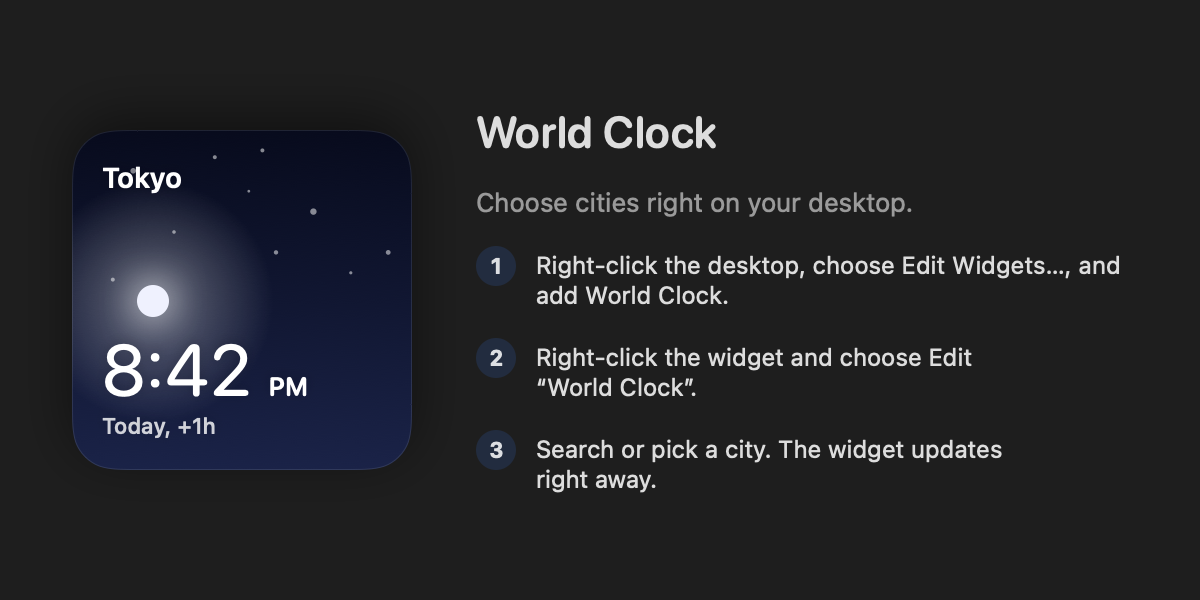
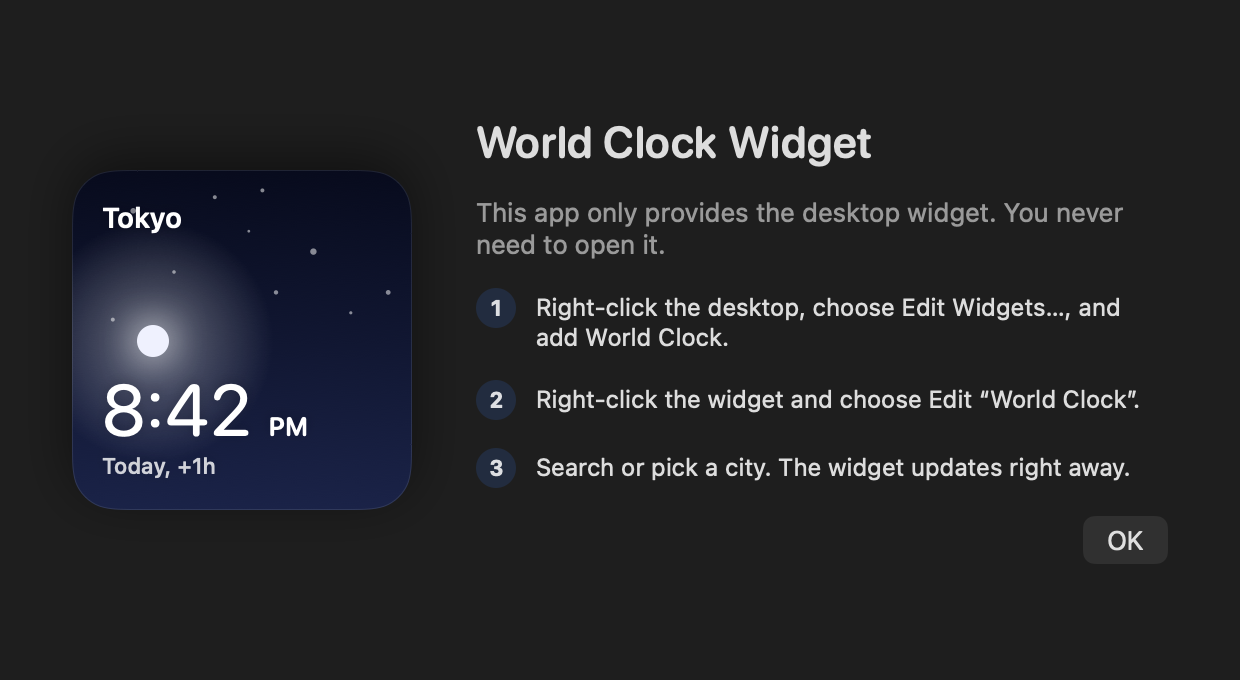
Rename the host app to World Clock Widget and keep it out of the Dock
The app exists only because macOS ships widgets inside an app. It is now
named World Clock Widget, installs as ~/Applications/World Clock Widget.app,
never takes a Dock tile, and its window is a short note with the Edit
Widget steps, a live preview and an OK button that quits. The installer
unregisters and removes the old ~/Applications/WorldClock.app so only one
copy hosts the widget. The widget kind and bundle IDs are unchanged.

diff --git a/Sources/App/ContentView.swift b/Sources/App/ContentView.swift
@@ -1,15 +1,17 @@
 import AppKit
 import SwiftUI
 
-/// The app's only window. Cities are chosen in Edit Widget, so this explains how,
-/// next to a live preview of a small widget.
+/// The app's only window: a short note that this app just provides the widget, the steps to add it
+/// and choose cities in Edit Widget, and a live preview of a small widget.
 struct ContentView: View {
     /// Fixed window size, shared with the AppKit window and the snapshot tool.
-    static let windowSize = CGSize(width: 600, height: 300)
+    static let windowSize = CGSize(width: 620, height: 340)
 
     /// A fixed instant for snapshot rendering; nil shows the live time.
     var previewDate: Date?
     var reference: TimeZone = .autoupdatingCurrent
+    /// Called by the OK button; the app quits.
+    var onDone: () -> Void = {}
     @Environment(\.locale) private var locale
     // This view is hosted in an AppKit window, outside a SwiftUI Window scene.
     @State private var isAppActive = NSApplication.shared.isActive
@@ -49,15 +51,20 @@ struct ContentView: View {
 
     private var instructions: some View {
         VStack(alignment: .leading, spacing: 14) {
-            Text(ClockText(locale).title).font(.system(size: 22, weight: .semibold, design: .rounded))
-            Text(zh ? "城市在桌面上的小组件里选择。" : "Choose cities right on your desktop.")
-                .foregroundStyle(.secondary)
+            Text(zh ? "世界时钟小组件" : "World Clock Widget").font(.system(size: 22, weight: .semibold, design: .rounded))
+            Text(zh ? "此应用只提供桌面小组件，无需打开。" : "This app only provides the desktop widget. You never need to open it.")
+                .foregroundStyle(.secondary).fixedSize(horizontal: false, vertical: true)
             step(1, zh ? "右键点按桌面，选择“编辑小组件…”，添加“世界时钟”。"
                        : "Right-click the desktop, choose Edit Widgets…, and add World Clock.")
             step(2, zh ? "右键点按小组件，选择“编辑‘世界时钟’”。"
                        : "Right-click the widget and choose Edit “World Clock”.")
             step(3, zh ? "搜索或选择城市，小组件会立即更新。"
                        : "Search or pick a city. The widget updates right away.")
+            HStack {
+                Spacer()
+                Button(zh ? "好" : "OK", action: onDone)
+                    .keyboardShortcut(.defaultAction)
+            }
         }
         .frame(maxWidth: .infinity, alignment: .leading)
     }

diff --git a/Sources/App/WorldClockApp.swift b/Sources/App/WorldClockApp.swift
@@ -3,6 +3,8 @@ import SwiftUI
 
 /// Own window creation explicitly: SwiftUI's automatic launch window would also appear on widget taps.
 ///
+/// The app only hosts the widget, so it never appears in the Dock (LSUIElement) and has one small note window.
+///
 /// How the app reacts to each way it can be started:
 /// - Opened from Finder/Dock/Spotlight, or by an old `worldclock://cities` link: show the window.
 /// - Opened by a widget click (`worldclock://display`): quit at once, or hide a window that is already open.
@@ -71,9 +73,6 @@ final class AppDelegate: NSObject, NSApplicationDelegate {
 
     private func showWindow() {
         suppressPassiveActivation = false
-        // Start as an agent (LSUIElement) so passive widget launches never flash in the Dock.
-        // Only an explicit request promotes the app to a normal Dock application.
-        NSApplication.shared.setActivationPolicy(.regular)
         if window == nil { window = makeWindow() }
         // Wait until AppKit has completed launch/activation-policy changes before presenting.
         DispatchQueue.main.async { [weak self] in
@@ -87,12 +86,12 @@ final class AppDelegate: NSObject, NSApplicationDelegate {
         let window = NSWindow(contentRect: NSRect(origin: .zero, size: ContentView.windowSize),
                               styleMask: [.titled, .closable, .miniaturizable, .fullSizeContentView],
                               backing: .buffered, defer: false)
-        window.title = "World Clock"
+        window.title = "World Clock Widget"
         window.identifier = NSUserInterfaceItemIdentifier("main")
         window.titleVisibility = .hidden
         window.titlebarAppearsTransparent = true
         window.isReleasedWhenClosed = false
-        window.contentViewController = NSHostingController(rootView: ContentView())
+        window.contentViewController = NSHostingController(rootView: ContentView(onDone: { NSApplication.shared.terminate(nil) }))
         window.center()
         return window
     }

diff --git a/README.md b/README.md
@@ -31,7 +31,7 @@ brew install xcodegen
 ```
 
 The script generates the Xcode project, builds Release, checks the widget's compiled intent metadata,
-and installs the app at `~/Applications/WorldClock.app`. Local builds are ad-hoc signed and sandboxed;
+and installs the app at `~/Applications/World Clock Widget.app`, removing an older `WorldClock.app` there. Local builds are ad-hoc signed and sandboxed;
 an Apple Developer account is not required for this configuration.
 
 Right-click the desktop → **Edit Widgets…** → search **World Clock**, then add a size.
@@ -43,10 +43,11 @@ Right-click a widget → **Edit “World Clock”**. Type in **Search cities** t
 which otherwise shows popular cities grouped by region (your own region first) with each city's current time.
 Each widget keeps its own cities; with none picked, it shows default cities in other time zones.
 
-This is the only place cities are chosen. Opening the World Clock app shows these steps next to a live
-widget preview; the app quits when its window closes, and widgets keep working without it.
+This is the only place cities are chosen. The **World Clock Widget** app exists only because macOS ships
+widgets inside an app: it never appears in the Dock, and opening it just shows these steps next to a live
+widget preview, then quits. Deleting the app removes the widget.
 
-![World Clock app](docs/app-window-light.png)
+![World Clock Widget app](docs/app-window-light.png)
 
 City IDs stay stable, so picks survive updates. Invalid cities are ignored and duplicates are removed
 while preserving order.

diff --git a/docs/architecture.md b/docs/architecture.md
@@ -28,8 +28,9 @@ flowchart LR
   prefixes, substrings and zone-name matches.
 - Ordinary widget clicks use `worldclock://display`. AppKit owns window creation, so this route is consumed
   without creating a window. A host launched solely for this route exits immediately.
-  `LSUIElement = true` makes LaunchServices start the host without a Dock tile. Only `showWindow` promotes it
-  to `.regular`. Setting the policy after launch would be too late to prevent the initial Dock flash.
+  `LSUIElement = true` makes LaunchServices start the host without a Dock tile, and the app never changes that:
+  it only hosts the widget, and its one window is a short note. Setting the policy after launch would be too late
+  to prevent the initial Dock flash.
   URL delivery can follow `applicationDidFinishLaunching`, especially on double-clicks. That callback must
   check `NSApplication.launchIsDefaultUserInfoKey` before treating a launch as an explicit request;
   the absence of an already-received URL alone is insufficient.
